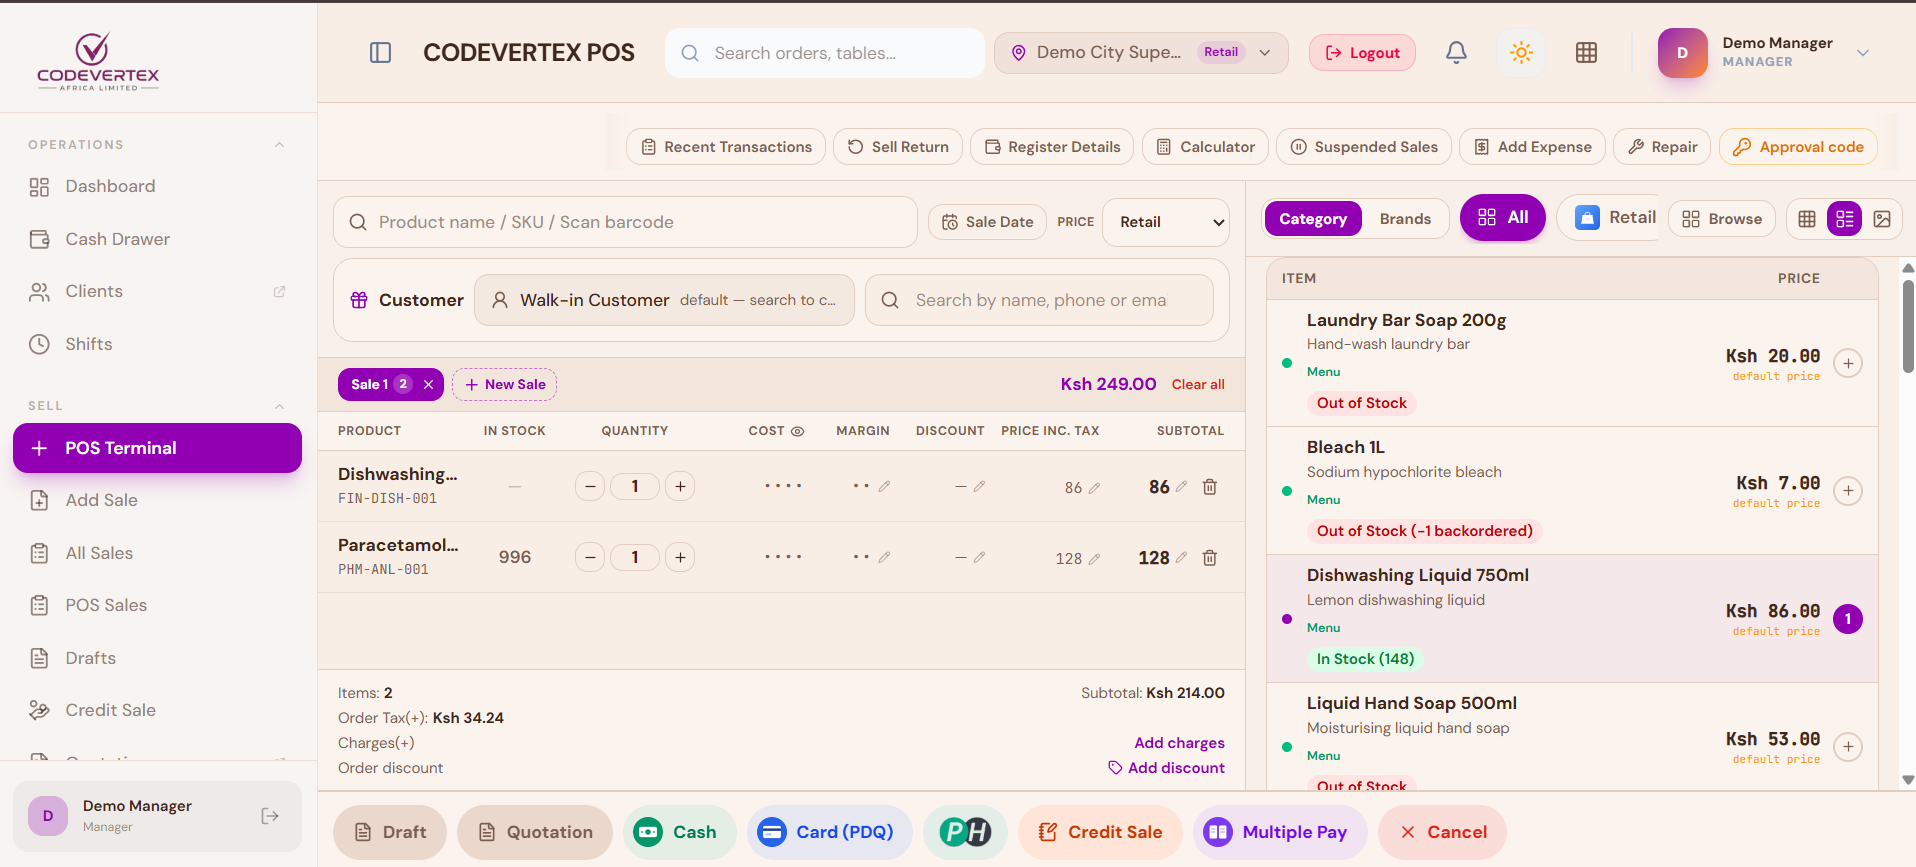
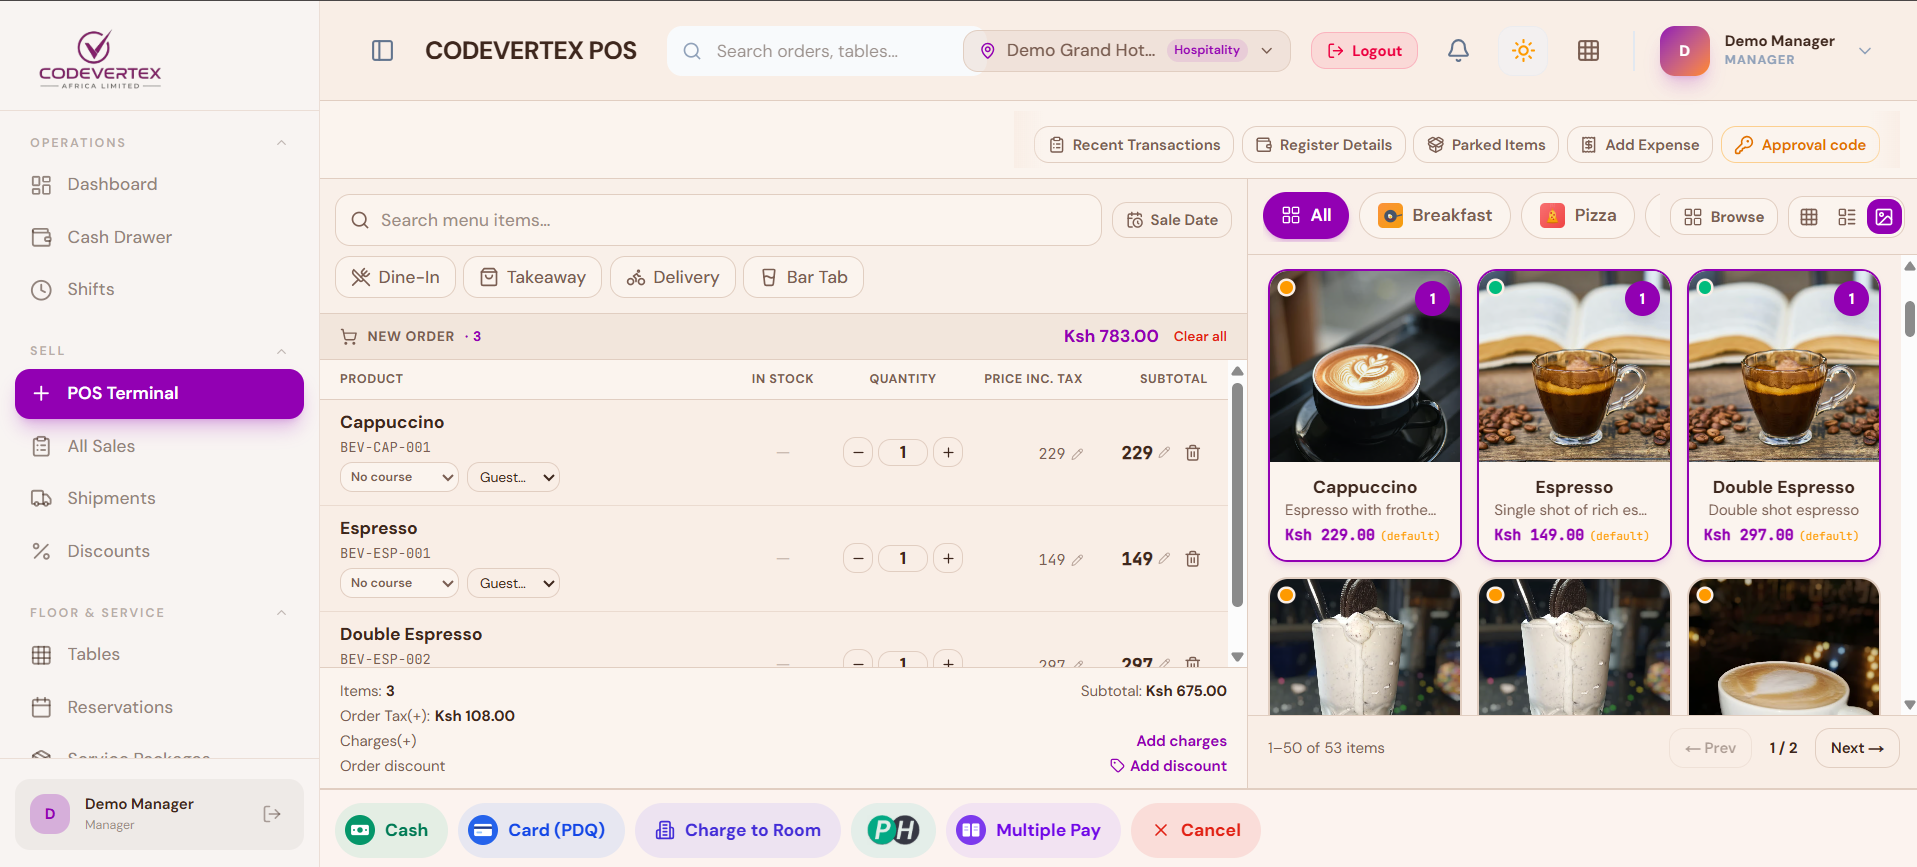
feat(website): POS scene shows the hospitality POS at a Nairobi cafe
The POS terminal now carries the team's updated capture of the
hospitality sell screen (a cafe order), so the backdrop moves from a
supermarket to Thorn Tree Cafe, Nairobi (Bahnfrend, CC BY-SA 4.0). The
scene gets a new name (pos-cafe-scene.webp) so no cache serves the old
one, and the products page, home showcase and /integrations use it
with updated alt text and credits.

diff --git a/src/app/integrations/page.tsx b/src/app/integrations/page.tsx
@@ -60,10 +60,10 @@ const INTEGRATIONS: Integration[] = [
     logos: true,
     photos: [
       {
-        src: '/images/products/pos-scene.webp',
-        alt: 'The POS on the counter of a Kenyan supermarket',
+        src: '/images/products/pos-cafe-scene.webp',
+        alt: 'The POS on a Nairobi cafe counter, with Cash, Card, PayHero and Charge to Room payment buttons',
         caption: 'Paid at the counter',
-        credit: 'Counter photo: Mauryndinar, CC BY-SA 4.0, via Wikimedia Commons, with the POS terminal added. Shared under CC BY-SA 4.0.',
+        credit: 'Cafe photo: Bahnfrend, CC BY-SA 4.0, via Wikimedia Commons, edited with the POS terminal added. Shared under CC BY-SA 4.0.',
       },
       { src: '/images/products/marketplace-scene.webp', alt: 'A marketplace checkout paid with M-Pesa on a phone, beside the storefront on a laptop', caption: 'Paid online' },
     ],

diff --git a/src/config/services.ts b/src/config/services.ts
@@ -110,8 +110,8 @@ export const POWER_SUITE: PowerSuiteProduct[] = [
     core: true,
     docs: 'user-guide/pos/',
     screenshot: {
-      ...screen('pos', 'The POS on the counter of a busy Kenyan supermarket, with cashiers and shoppers behind it'),
-      credit: 'Photo: Mauryndinar, CC BY-SA 4.0, via Wikimedia Commons, with the POS terminal added. This image is shared under CC BY-SA 4.0.',
+      ...screen('pos-cafe', 'The POS on a cafe counter in Nairobi, taking a coffee order with cappuccino, espresso and double espresso'),
+      credit: 'Photo: Bahnfrend, CC BY-SA 4.0, via Wikimedia Commons, edited with the POS terminal added. This image is shared under CC BY-SA 4.0.',
     },
   },
   {

diff --git a/docs/image-credits.md b/docs/image-credits.md
@@ -27,7 +27,7 @@ Two kinds of screen go onto the devices:
 
 - Real screens captured from the codevertex-demo tenant at 2x (2880 x 1800): Inventory, Logistics,
   Treasury and the TruLoad sign-in, plus the ERP reports page and Notifications monitoring
-  captured by the team. The POS terminal shows the team's capture of the POS sell screen
+  captured by the team. The POS terminal shows the team's capture of the hospitality POS sell screen
   (`public/images/photos/pos-terminal.png`, the scene's input, not used on any page).
 - Branded mockups built in HTML with sample data, for screens the demo tenant cannot show yet: the
   MarketFlow sequence map, the Vera chat, the ERP self-service phone, the Notifications delivery
@@ -38,7 +38,7 @@ Two kinds of screen go onto the devices:
 | Scene | Device and backdrop | Backdrop licence |
 |-------|---------------------|------------------|
 | treasury | Real photo of a finance officer at her laptop: Treasury dashboard on the laptop, the approval screen on the phone on her desk, microphone retouched out | CC BY-SA 4.0, Jaokov. Scene shared under CC BY-SA 4.0, credited where shown |
-| pos | Rendered counter terminal and receipt printer in front of a real Kenyan supermarket | CC BY-SA 4.0, Mauryndinar. Scene under CC BY-SA 4.0, credited where shown |
+| pos-cafe | Rendered counter terminal showing the hospitality POS (a cafe order) and a receipt printer, over Thorn Tree Cafe, Nairobi | CC BY-SA 4.0, Bahnfrend. Scene under CC BY-SA 4.0, credited where shown |
 | web-apps | Real photo of two developers at the Wikimania 2025 hackathon in Nairobi, storefront and code on the laptop, a Codevertex sign on the wall | CC BY-SA 4.0, JMcRae-WMF. Scene under CC BY-SA 4.0, credited where shown |
 | mobile-apps | Real photo of a developer at the same hackathon, emulator, code and terminal on the laptop | CC BY-SA 4.0, JMcRae-WMF. Scene under CC BY-SA 4.0, credited where shown |
 | ai | Laptop with the MarketFlow map and a phone with Vera, over the Kisumu skyline | CC BY 4.0, Will Ochieng', credited where shown |
